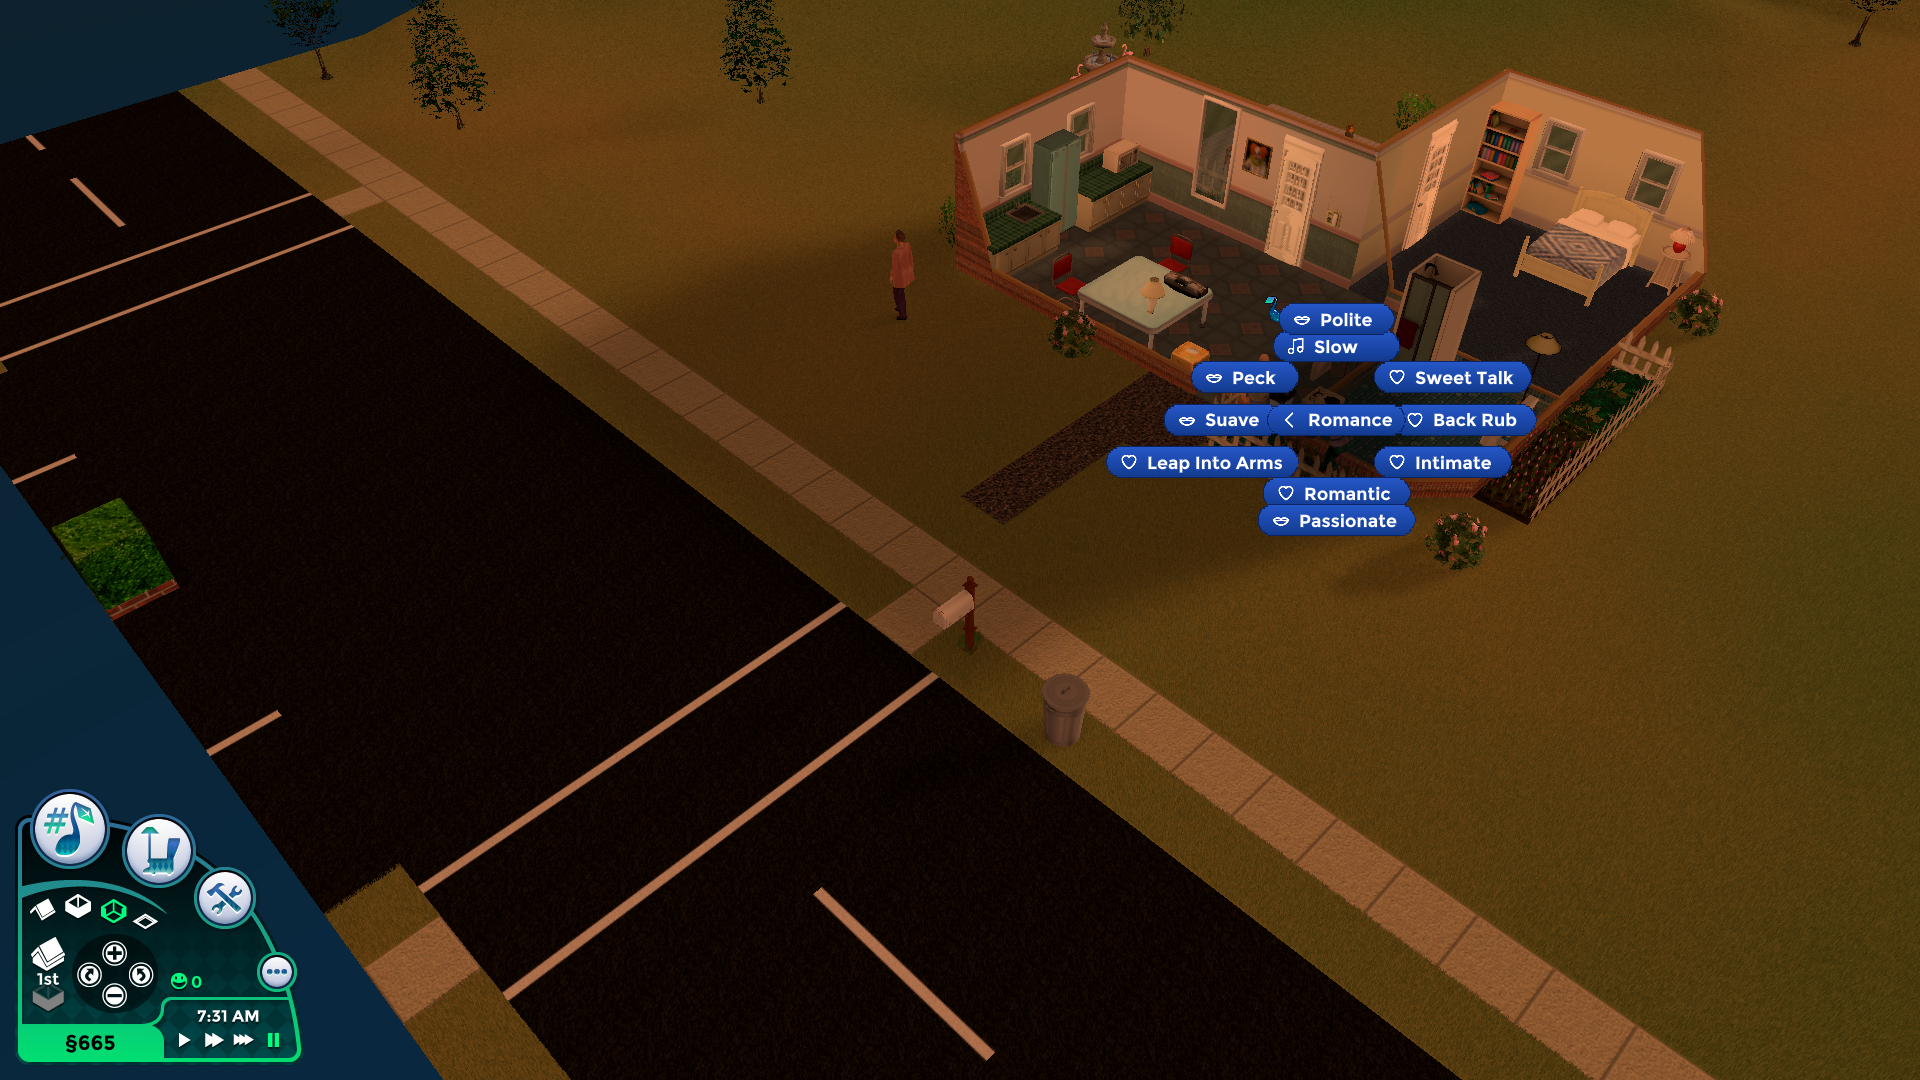
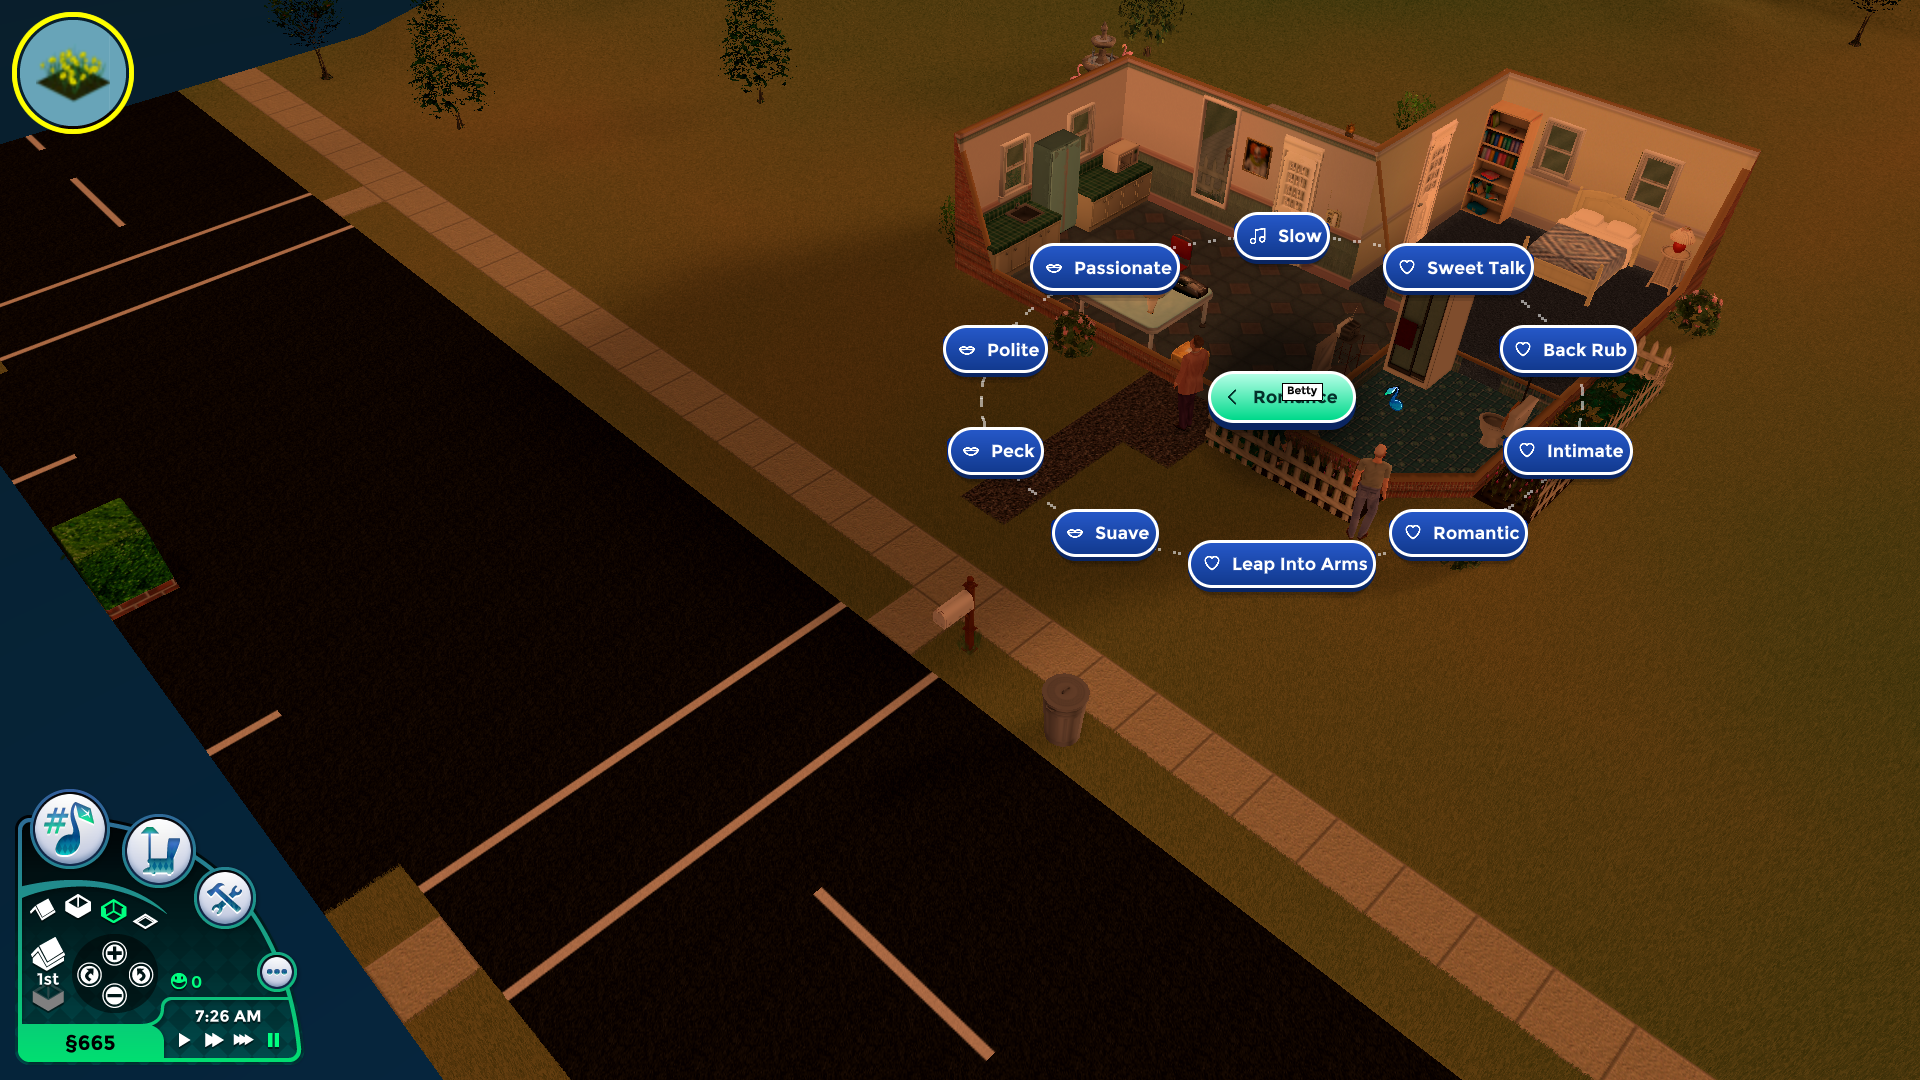
HtmlSurface: anti-aliased rounded corners (cached coverage masks) for every window; pie hides native captions

diff --git a/Tools/Conversations/Game/HtmlSurface.cs b/Tools/Conversations/Game/HtmlSurface.cs
@@ -137,19 +137,52 @@ namespace Simitone.Conversations
             owner.DrawLocalTexture(batch, px, null, Turn(x, y), new Vector2(w + 1.6f, h + 1.6f), c, rotRad);   // a little larger: the engine snaps each piece to whole pixels, which would leave hairline gaps
         }
 
-        // rounded rectangle as a centre block plus one strip per corner row; colorAt(t) gives the colour at relative height t (0 top .. 1 bottom)
-        void Rounded(float x, float y, float w, float h, float r, Func<float, Color> colorAt)
+        // Anti-aliased corners: for a radius r a small texture (2r x r) holds the top-left and top-right corner coverage, computed once per radius.
+        // Rows of it are drawn tinted, so a gradient can still change colour row by row and the edge is smooth instead of stair-stepped.
+        readonly Dictionary<int, Texture2D> cornerTex = new Dictionary<int, Texture2D>();
+        Texture2D Corners(int r)
         {
-            r = Math.Min(r, Math.Min(w, h) / 2);
-            if (r < 1.5f) { Rect(x, y, w, h, colorAt(0.5f)); return; }
-            int step = r > 12 ? 2 : 1;
-            for (float i = 0; i < r; i += step)
+            Texture2D t;
+            if (cornerTex.TryGetValue(r, out t)) return t;
+            t = new Texture2D(batch.GraphicsDevice, 2 * r, r);
+            var data = new Color[2 * r * r];
+            for (int py = 0; py < r; py++)
+                for (int px2 = 0; px2 < 2 * r; px2++)
+                {
+                    float dx = r - (px2 + 0.5f), dy = r - (py + 0.5f);   // vector to the corner circle's centre (left half; the right half is mirrored below)
+                    float d = r - (float)Math.Sqrt(dx * dx + dy * dy);   // distance inside the circle edge, in pixels
+                    byte a = (byte)(255 * Math.Max(0, Math.Min(1, d + 0.5f)));
+                    data[py * 2 * r + px2] = new Color(a, a, a, a);     // premultiplied white
+                }
+            // right half mirrors the left one: pixel (r + k) takes coverage of left pixel (r - 1 - k)
+            for (int py = 0; py < r; py++)
+                for (int k = 0; k < r; k++) data[py * 2 * r + r + k] = data[py * 2 * r + (r - 1 - k)];
+            t.SetData(data);
+            cornerTex[r] = t;
+            return t;
+        }
+
+        void Piece(Texture2D tex, int sx, int sy, int sw, float dx, float dy, Color c)
+        {
+            var src = new Rectangle(sx, sy, sw, 1);
+            if (!rotating) owner.DrawLocalTexture(batch, tex, src, new Vector2(dx, dy), Vector2.One, c);
+            else owner.DrawLocalTexture(batch, tex, src, Turn(dx, dy), new Vector2(1.02f, 1.6f), c, rotRad);
+        }
+
+        // rounded rectangle: smooth corner rows at the top and bottom, a centre block between; colorAt(t) gives the colour at relative height t (0 top .. 1 bottom)
+        void Rounded(float x, float y, float w, float h, float radius, Func<float, Color> colorAt)
+        {
+            if (!rotating) { x = (float)Math.Round(x); y = (float)Math.Round(y); w = (float)Math.Round(w); h = (float)Math.Round(h); }
+            int r = (int)Math.Round(Math.Min(radius, Math.Min(w, h) / 2));
+            if (r < 2) { Rect(x, y, w, h, colorAt(0.5f)); return; }
+            var tex = Corners(r);
+            for (int i = 0; i < r; i++)
             {
-                float dy = r - (i + step * 0.5f);
-                float inset = r - (float)Math.Sqrt(Math.Max(0, r * r - dy * dy));
-                float rowH = Math.Min(step, r - i);
-                Rect(x + inset, y + i, w - 2 * inset, rowH, colorAt((i + rowH / 2) / h));
-                Rect(x + inset, y + h - i - rowH, w - 2 * inset, rowH, colorAt(1 - (i + rowH / 2) / h));
+                var ct = colorAt((i + 0.5f) / h); var cb = colorAt(1 - (i + 0.5f) / h);
+                Piece(tex, 0, i, r, x, y + i, ct); Piece(tex, r, i, r, x + w - r, y + i, ct);
+                Rect(x + r, y + i, w - 2 * r, 1, ct);
+                Piece(tex, 0, i, r, x, y + h - 1 - i, cb); Piece(tex, r, i, r, x + w - r, y + h - 1 - i, cb);
+                Rect(x + r, y + h - 1 - i, w - 2 * r, 1, cb);
             }
             // the middle part, banded when it is a gradient
             float midY = y + r, midH = h - 2 * r;

diff --git a/Tools/Conversations/Game/PieOverlay.cs b/Tools/Conversations/Game/PieOverlay.cs
@@ -97,7 +97,8 @@ namespace Simitone.Conversations
                     var b = buttons[i] as UIButton;
                     if (b == null) continue;
                     bool back = hasParent && i == buttons.Count - 1;
-                    DrawSlot(pie.X + b.X, pie.Y + b.Y, b.Width, b.Size.Y, b.Caption, back);
+                    string cap; if (!captions.TryGetValue(b, out cap)) cap = b.Caption;
+                    DrawSlot(pie.X + b.X, pie.Y + b.Y, b.Width, b.Size.Y, cap, back);
                     drawn++;
                 }
                 LastState = "new slots=" + drawn;
@@ -108,6 +109,7 @@ namespace Simitone.Conversations
         static string Str(object o, string name) { var v = Prop(o, name); return v == null ? "" : v.ToString(); }
 
         object laidOut; int laidCount;
+        readonly Dictionary<object, string> captions = new Dictionary<object, string>();   // the native captions, which we blank so long ones do not poke out past our slots
         const float SlotH = 48;
         float ringRy = 128;
 
@@ -120,9 +122,12 @@ namespace Simitone.Conversations
             {
                 var b = buttons[i] as UIButton; if (b == null) continue;
                 bool back = hasParent && i == buttons.Count - 1;
-                float tw, th; painter.MeasureText(back ? PieStyle.CleanLabel(b.Caption) : PieStyle.ShortLabel(b.Caption), TextSize, false, out tw, out th);
-                float w = (float)Math.Ceiling(Math.Max(PieStyle.SlotWidth(tw, IconSize, 0, !back && PieStyle.IsSubmenu(b.Caption)), 96));
+                string cap = b.Caption;
+                captions[b] = cap;
+                float tw, th; painter.MeasureText(back ? PieStyle.CleanLabel(cap) : PieStyle.ShortLabel(cap), TextSize, false, out tw, out th);
+                float w = (float)Math.Ceiling(Math.Max(PieStyle.SlotWidth(tw, IconSize, 0, !back && PieStyle.IsSubmenu(cap)), 96));
                 b.Width = w;
+                b.Caption = "";
                 if (back) backW = w; else widths[k++] = w;
             }
             float[] cx, cy;
